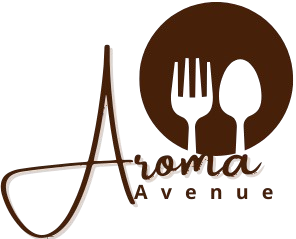
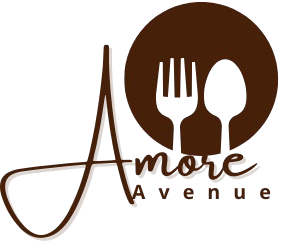
Initial commit for Amore Avenue project just style and color

Changed region(s): [[0.0, 0.0, 1.0, 1.0], [0.7298, 0.0, 0.814, 0.0293]]

diff --git a/app/contact/Contact.tsx b/app/contact/Contact.tsx
@@ -9,14 +9,14 @@ export default function Contact() {
     message: "",
   });
 
-  const handleChange = (e:any) => {
+  const handleChange = (e: any) => {
     setFormData({ ...formData, [e.target.name]: e.target.value });
   };
 
-  const handleSubmit = (e:any) => {
+  const handleSubmit = (e: any) => {
     e.preventDefault();
     console.log("Form submitted:", formData);
-    // You can integrate with email API like EmailJS or backend endpoint here
+    // integrate with EmailJS or backend later
   };
 
   const primaryColor = "#482008"; // Deep brown
@@ -24,24 +24,25 @@ export default function Contact() {
 
   return (
     <section
-      className="flex flex-col items-center justify-center px-6 sm:px-10 lg:px-20 py-16 min-h-screen"
-      style={{ backgroundColor: primaryColor }}
+      className="flex flex-col items-center justify-center px-6 sm:px-10 lg:px-20 py-16 min-h-screen relative overflow-hidden"
+     
     >
-         <h2
-          className="text-4xl md:text-6xl lg:text-7xl font-bold mb-8 text-center"
-          style={{ color: "white"}}
-        >
-          Get In Touch
-        </h2>
-      <div className="w-full max-w-2xl bg-white rounded-2xl shadow-2xl p-8 sm:p-10">
-       
+      {/* Background glow effect */}
+      <div className="absolute inset-0 opacity-20 bg-linear-to-br from-[#d4a574]/30 via-transparent to-[#482008]" />
 
+      {/* Title */}
+      <h2 className="text-4xl md:text-6xl lg:text-7xl font-bold mb-10 text-center text-[#482008] drop-shadow-lg">
+        Get In Touch
+      </h2>
+
+      {/* Form container */}
+      <div className="relative w-full max-w-2xl backdrop-blur-md bg-white/10 rounded-2xl shadow-2xl p-8 sm:p-10 border border-[#d4a574]/30 text-white">
         <form onSubmit={handleSubmit} className="space-y-6">
           {/* Name */}
           <div>
             <label
               htmlFor="name"
-              className="block text-sm font-semibold mb-2 text-gray-700"
+              className="block text-sm font-semibold mb-2 text-[#d4a574]"
             >
               Full Name
             </label>
@@ -53,7 +54,7 @@ export default function Contact() {
               onChange={handleChange}
               required
               placeholder="Enter your name"
-              className="w-full px-4 py-3 rounded-lg border border-gray-300 focus:outline-none focus:ring-2 focus:ring-[#d4a574] transition-all"
+              className="w-full px-4 py-3 rounded-lg bg-transparent border border-[#d4a574]/50 text-white placeholder-gray-300 focus:outline-none focus:ring-2 focus:ring-[#d4a574] transition-all"
             />
           </div>
 
@@ -61,7 +62,7 @@ export default function Contact() {
           <div>
             <label
               htmlFor="email"
-              className="block text-sm font-semibold mb-2 text-gray-700"
+              className="block text-sm font-semibold mb-2 text-[#d4a574]"
             >
               Email Address
             </label>
@@ -73,7 +74,7 @@ export default function Contact() {
               onChange={handleChange}
               required
               placeholder="Enter your email"
-              className="w-full px-4 py-3 rounded-lg border border-gray-300 focus:outline-none focus:ring-2 focus:ring-[#d4a574] transition-all"
+              className="w-full px-4 py-3 rounded-lg bg-transparent border border-[#d4a574]/50 text-white placeholder-gray-300 focus:outline-none focus:ring-2 focus:ring-[#d4a574] transition-all"
             />
           </div>
 
@@ -81,7 +82,7 @@ export default function Contact() {
           <div>
             <label
               htmlFor="phone"
-              className="block text-sm font-semibold mb-2 text-gray-700"
+              className="block text-sm font-semibold mb-2 text-[#d4a574]"
             >
               Phone Number
             </label>
@@ -93,7 +94,7 @@ export default function Contact() {
               onChange={handleChange}
               required
               placeholder="Enter your phone number"
-              className="w-full px-4 py-3 rounded-lg border border-gray-300 focus:outline-none focus:ring-2 focus:ring-[#d4a574] transition-all"
+              className="w-full px-4 py-3 rounded-lg bg-transparent border border-[#d4a574]/50 text-white placeholder-gray-300 focus:outline-none focus:ring-2 focus:ring-[#d4a574] transition-all"
             />
           </div>
 
@@ -101,7 +102,7 @@ export default function Contact() {
           <div>
             <label
               htmlFor="message"
-              className="block text-sm font-semibold mb-2 text-gray-700"
+              className="block text-sm font-semibold mb-2 text-[#d4a574]"
             >
               Message
             </label>
@@ -113,7 +114,7 @@ export default function Contact() {
               onChange={handleChange}
               required
               placeholder="Type your message here..."
-              className="w-full px-4 py-3 rounded-lg border border-gray-300 focus:outline-none focus:ring-2 focus:ring-[#d4a574] transition-all"
+              className="w-full px-4 py-3 rounded-lg bg-transparent border border-[#d4a574]/50 text-white placeholder-gray-300 focus:outline-none focus:ring-2 focus:ring-[#d4a574] transition-all"
             ></textarea>
           </div>
 
@@ -121,9 +122,10 @@ export default function Contact() {
           <div className="flex justify-center pt-4">
             <button
               type="submit"
-              className="bg-[#d4a574] text-white font-semibold text-lg px-8 py-3 rounded-full shadow-lg hover:bg-[#c38e4a] hover:scale-105 transform transition-all duration-300"
+              className="relative bg-[#d4a574] text-white font-semibold text-lg px-10 py-3 rounded-full shadow-lg hover:bg-[#c38e4a] hover:scale-105 transform transition-all duration-300"
             >
               Send Message
+              <span className="absolute inset-0 rounded-full bg-[#d4a574]/30 blur-lg opacity-40 group-hover:opacity-60 transition"></span>
             </button>
           </div>
         </form>

diff --git a/app/Footer.jsx b/app/Footer.jsx
@@ -1,0 +1,66 @@
+import Image from "next/image";
+import React from "react";
+import amorelogo from "@/public/amorelogo.png"; // adjust the path if needed
+
+export default function Footer() {
+  return (
+    <footer className="bg-[#482008] text-white py-10 px-6 sm:px-10 lg:px-20">
+      <div className="max-w-7xl mx-auto grid grid-cols-1 sm:grid-cols-2 lg:grid-cols-4 gap-10 border-b border-[#d4a574]/30 pb-10">
+        
+        {/* Logo + Description */}
+        <div className="flex flex-col items-center sm:items-start text-center sm:text-left space-y-4">
+          <Image
+            src={amorelogo}
+            alt="Amore Avenue Logo"
+            width={150}
+            height={150}
+            className="object-contain"
+          />
+          <p className="text-[#d4a574] font-medium text-lg tracking-wide">
+            Amore Avenue
+          </p>
+          <p className="text-sm text-gray-300 leading-relaxed">
+            Bringing people together through the love of food.  
+            Every dish, every flavor — made with passion.
+          </p>
+        </div>
+
+        {/* Quick Links */}
+        <div>
+          <h3 className="text-xl font-semibold text-[#d4a574] mb-4">Quick Links</h3>
+          <ul className="space-y-2">
+            <li><a href="#" className="hover:text-[#d4a574] transition">Home</a></li>
+            <li><a href="#" className="hover:text-[#d4a574] transition">Menu</a></li>
+            <li><a href="#" className="hover:text-[#d4a574] transition">About</a></li>
+            <li><a href="#" className="hover:text-[#d4a574] transition">Contact</a></li>
+          </ul>
+        </div>
+
+        {/* Contact Info */}
+        <div>
+          <h3 className="text-xl font-semibold text-[#d4a574] mb-4">Contact Us</h3>
+          <ul className="space-y-2 text-sm text-gray-300">
+            <li>📍 123 Amore Street, Food City</li>
+            <li>📞 +1 (234) 567-8901</li>
+            <li>✉ info@amoreavenue.com</li>
+          </ul>
+        </div>
+
+        {/* Social Media */}
+        <div>
+          <h3 className="text-xl font-semibold text-[#d4a574] mb-4">Follow Us</h3>
+          <div className="flex space-x-4">
+            <a href="#" className="hover:text-[#d4a574] transition"><i className="fab fa-facebook-f"></i></a>
+            <a href="#" className="hover:text-[#d4a574] transition"><i className="fab fa-instagram"></i></a>
+            <a href="#" className="hover:text-[#d4a574] transition"><i className="fab fa-twitter"></i></a>
+          </div>
+        </div>
+      </div>
+
+      {/* Bottom Bar */}
+      <div className="text-center text-sm text-gray-400 mt-8">
+        © {new Date().getFullYear()} Amore Avenue. All Rights Reserved.
+      </div>
+    </footer>
+  );
+}

diff --git a/app/page.tsx b/app/page.tsx
@@ -2,12 +2,14 @@
 
 import Image from "next/image";
 import { Button } from "@/components/ui/button";
-import FeaturedFood from './_components/Home/FeaturedFood'
-import FoodSlider from './_components/FoodSlider'
+
+import FoodSlider from './FoodSlider'
 import { motion, scale } from "framer-motion";
-import Navbar from "./_components/Navbar";
-import About from './_components/About'
-import Contact from "./_components/Contact";
+import Navbar from "./Navbar";
+import About from './about/About'
+import Contact from "./contact/Contact";
+import Footer from './Footer'
+import Menu from "./menu/page";
 export default function HomePage() {
   const primaryColor = "#482008" // Dark brown
   const accentColor = "#d4a574"
@@ -46,10 +48,11 @@ export default function HomePage() {
         </div>
       </section>
 
-      <FeaturedFood />
+      <Menu />
       <FoodSlider />
       <About/>
       <Contact/>
+      <Footer/>
     </main>
   );
 }

diff --git a/app/Navbar.tsx b/app/Navbar.tsx
@@ -1,6 +1,7 @@
 import React from 'react'
 import Image from 'next/image'
 import { Button } from '@/components/ui/button';
+import logo from "./../public/removedbg.png"
 
 function Navbar() {
     return (
@@ -8,7 +9,7 @@ function Navbar() {
 
             <div className="fixed backdrop-blur-sm bg-[white] flex top-0 left-0 right-0 z-50 px-5 py-2 items-center justify-between text-white">
                 <Image
-                    src="/removedbg.png"
+                    src={logo}
                     alt="logo"
                     width={85}
                     height={85}

diff --git a/app/layout.tsx b/app/layout.tsx
@@ -3,10 +3,10 @@ import "./globals.css";
 
 
 export const metadata: Metadata = {
-  title: "Create Next App",
-  description: "Generated by create next app",
+  title: "Love Sitting",
+  description: "A place of Love",
   icons: {
-    icon: "/aromalogo.png",
+    icon: "/amorelogo.png",
   },
 };
 

diff --git a/app/menu/page.tsx b/app/menu/page.tsx
@@ -72,7 +72,7 @@ const contentVariants = {
   }
 }
 
-export default function ChefsPicks() {
+export default function Menu() {
   const dishes = [
     {
       id: 1,
